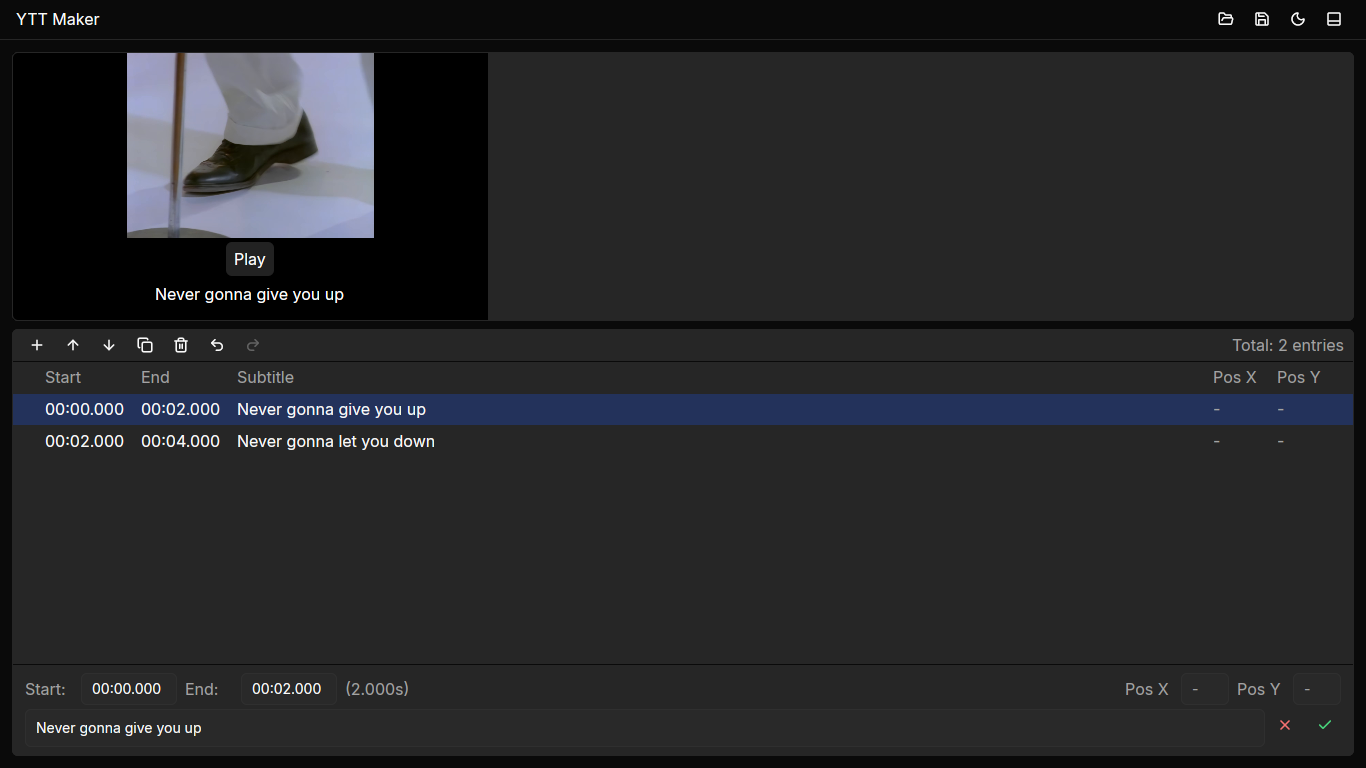
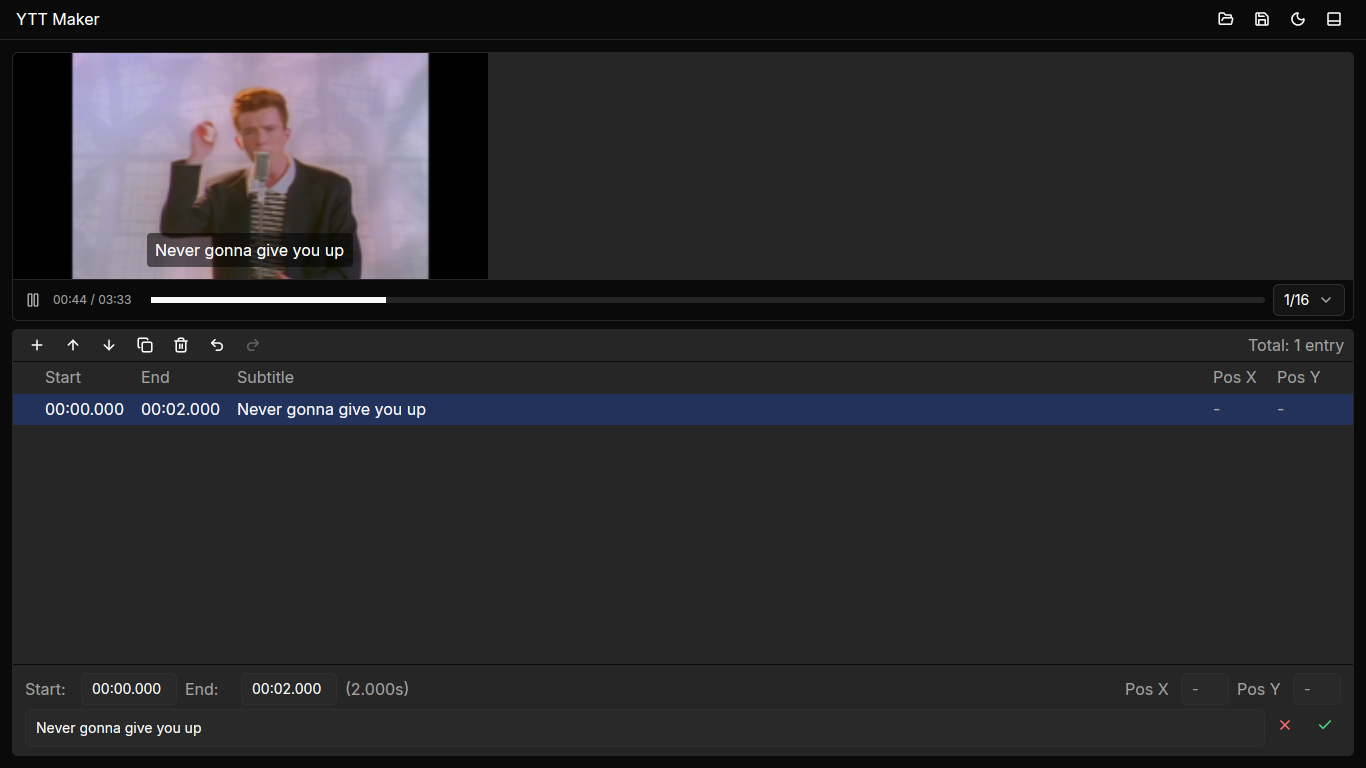
feat(player): add 1/16 preview scale

Changed region(s): [[0.0, 0.0625, 1.0, 0.4688], [0.0307, 0.5625, 0.3075, 0.5938]]

diff --git a/crates/yttm-playback/src/lib.rs b/crates/yttm-playback/src/lib.rs
@@ -13,10 +13,17 @@ pub enum PreviewQuality {
     #[default]
     Quarter,
     Eighth,
+    Potato,
 }
 
 impl PreviewQuality {
-    pub const ALL: [Self; 4] = [Self::Full, Self::Half, Self::Quarter, Self::Eighth];
+    pub const ALL: [Self; 5] = [
+        Self::Full,
+        Self::Half,
+        Self::Quarter,
+        Self::Eighth,
+        Self::Potato,
+    ];
 
     pub fn label(self) -> &'static str {
         match self {
@@ -24,6 +31,7 @@ impl PreviewQuality {
             Self::Half => "1/2",
             Self::Quarter => "1/4",
             Self::Eighth => "1/8",
+            Self::Potato => "1/16",
         }
     }
 
@@ -33,6 +41,7 @@ impl PreviewQuality {
             Self::Half => 2,
             Self::Quarter => 4,
             Self::Eighth => 8,
+            Self::Potato => 16,
         }
     }
 }

diff --git a/crates/yttm-ui/src/app.rs b/crates/yttm-ui/src/app.rs
@@ -56,6 +56,7 @@ impl YttmApp {
                 Some("1/2") => PreviewQuality::Half,
                 Some("1/4") => PreviewQuality::Quarter,
                 Some("1/8") => PreviewQuality::Eighth,
+                Some("1/16") => PreviewQuality::Potato,
                 _ => return,
             };
             this.set_preview_quality(quality, cx);
